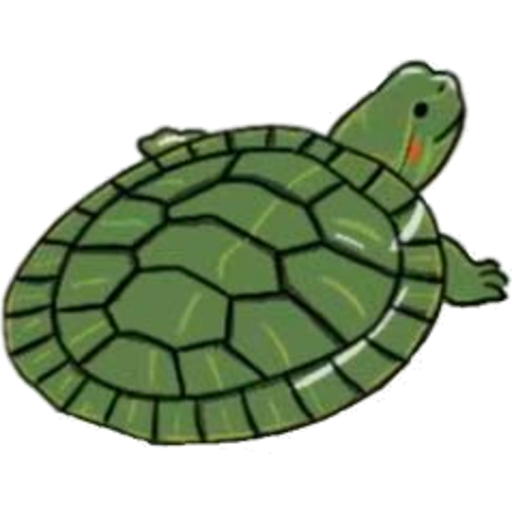
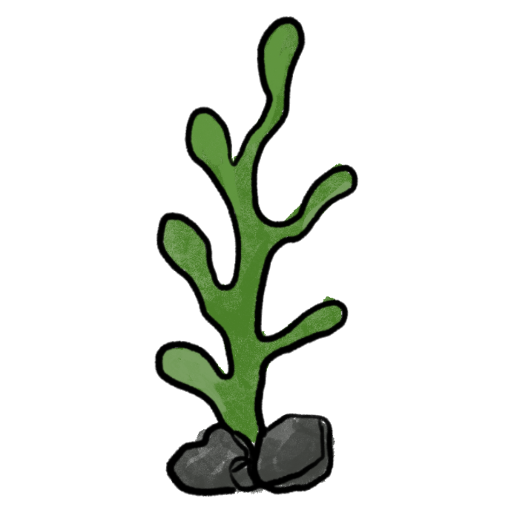
feat(minigame): 接入31张手绘贴图并恢复常态关卡进程
- 处理01-31手绘PNG：去白底(边缘漫水+内部白洞)、裁剪居中、面积归一化缩放至512
- 引擎优先用assets/patterns/NN.png，32-70暂由程序生物兜底
- core.js RETAINED_PATTERNS置空，图案随关卡自然增长(1-31手绘、32-70程序生成)
- 设置面板新增“回到第1关”按钮，一键重置进度存档(psm.level)
- 结算文案“再来一局”改为“下一关”
- 新增预览图 preview-patterns.html / preview_sheet.png / preview_level1.png

diff --git a/minigame/js/ui.js b/minigame/js/ui.js
@@ -37,7 +37,8 @@ class UI {
     this.winBtn = null;         // {x, y, w, h}
     this.settingsCloseBtn = null; // {x, y, w, h}
     this.settingsRestartBtn = null; // {x, y, w, h}
-    this.pressId = null; // 底部按钮按压反馈：'settingsRestart' | 'settingsClose'
+    this.settingsResetBtn = null;   // {x, y, w, h} 回到第1关
+    this.pressId = null; // 底部按钮按压反馈：'settingsReset' | 'settingsRestart' | 'settingsClose'
     this.winPressId = null; // 结算“再来一局”按压反馈
     this.confetti = [];         // active confetti pieces
     this.fishX = 0;             // animated fish position along the bar
@@ -93,7 +94,7 @@ class UI {
   // works even before the first render of the panel).
   _layoutSettings(W, H) {
     const cardW = Math.min(W * 0.8, 320);
-    const cardH = 300;
+    const cardH = 320;
     const c = { x: Math.round((W - cardW) / 2), y: Math.round((H - cardH) / 2), w: cardW, h: cardH };
     const rowX = c.x + 20;
     const rowW = cardW - 40;
@@ -104,11 +105,12 @@ class UI {
       sound:   { x: rowX, y: c.y + 126, w: rowW, h: rowH },
       vibrate: { x: rowX, y: c.y + 174, w: rowW, h: rowH },
     };
-    const bh = 44;
+    const bh = 42;
     const gap = 12;
     const bw = Math.round((rowW - gap) / 2);
-    this.settingsRestartBtn = { x: c.x + 20, y: c.y + cardH - 64, w: bw, h: bh };
-    this.settingsCloseBtn = { x: c.x + 20 + bw + gap, y: c.y + cardH - 64, w: bw, h: bh };
+    this.settingsResetBtn = { x: c.x + 20, y: c.y + 224, w: rowW, h: bh };
+    this.settingsRestartBtn = { x: c.x + 20, y: c.y + cardH - 46, w: bw, h: bh };
+    this.settingsCloseBtn = { x: c.x + 20 + bw + gap, y: c.y + cardH - 46, w: bw, h: bh };
   }
 
   // ---- hit testing ------------------------------------------------------
@@ -132,6 +134,10 @@ class UI {
       if (this.settingsCloseBtn && x >= this.settingsCloseBtn.x && x <= this.settingsCloseBtn.x + this.settingsCloseBtn.w &&
           y >= this.settingsCloseBtn.y && y <= this.settingsCloseBtn.y + this.settingsCloseBtn.h) {
         return { zone: 'overlay', id: 'settingsClose' };
+      }
+      if (this.settingsResetBtn && x >= this.settingsResetBtn.x && x <= this.settingsResetBtn.x + this.settingsResetBtn.w &&
+          y >= this.settingsResetBtn.y && y <= this.settingsResetBtn.y + this.settingsResetBtn.h) {
+        return { zone: 'overlay', id: 'settingsReset' };
       }
       return { zone: 'overlay', id: null }; // block board while settings is up
     }
@@ -528,7 +534,9 @@ class UI {
     this._drawSettingsRow(ctx, this.settingsRows.sound, '音效', null, !!s.soundOn, 'sound');
     this._drawSettingsRow(ctx, this.settingsRows.vibrate, '震动', null, !!s.vibrate, 'vibrate');
 
-    // 底部一排按钮：左“重新开始”（黄）、右“返回游戏”（呼吸缩放）
+    // 底部按钮：上排“回到第 1 关”（蓝），下排左“重新开始”（黄）、右“返回游戏”（绿）
+    const rbtn = this.settingsResetBtn;
+    if (rbtn) this._drawPanelButton(ctx, rbtn, '回到第 1 关', '#6ec6ff', '#2f8fd6', this.pressId === 'settingsReset', false, now, '#ffffff');
     const rb = this.settingsRestartBtn;
     if (rb) this._drawPanelButton(ctx, rb, '重新开始', '#ffd54f', '#f5b400', this.pressId === 'settingsRestart', false, now, '#ffffff');
     const b = this.settingsCloseBtn;
@@ -811,7 +819,7 @@ class UI {
     ctx.fill();
     ctx.fillStyle = '#fff';
     ctx.font = rf('700', 16);
-    ctx.fillText('再来一局', bx + bw / 2, by + bh / 2 + 1);
+    ctx.fillText('下一关', bx + bw / 2, by + bh / 2 + 1);
     ctx.restore();
     this.winBtn = { x: bx, y: by, w: bw, h: bh };
   }

diff --git a/minigame/preview-patterns.html b/minigame/preview-patterns.html
@@ -1,0 +1,69 @@
+<!DOCTYPE html>
+<html lang="zh">
+<head>
+<meta charset="utf-8">
+<meta name="viewport" content="width=device-width,initial-scale=1">
+<title>手绘贴图预览（海洋消消乐）</title>
+<style>
+  body{background:#0b2233;color:#cfe6f5;font-family:system-ui,sans-serif;margin:0;padding:16px}
+  h1{font-size:16px;font-weight:600}
+  .note{font-size:12px;opacity:.7;margin:6px 0 14px}
+  .grid{display:grid;grid-template-columns:repeat(auto-fill,minmax(110px,1fr));gap:10px}
+  .cell{background:#0e2c40;border-radius:10px;padding:8px;text-align:center}
+  canvas{width:96px;height:96px;display:block;margin:0 auto;border-radius:8px}
+  .lbl{font-size:11px;margin-top:6px;opacity:.8}
+  .chk{width:96px;height:96px;display:block;margin:4px auto 0;border-radius:8px;
+       background:
+         linear-gradient(45deg,#555 25%,transparent 25%),
+         linear-gradient(-45deg,#555 25%,transparent 25%),
+         linear-gradient(45deg,transparent 75%,#555 75%),
+         linear-gradient(-45deg,transparent 75%,#555 75%);
+       background-size:16px 16px;background-position:0 0,0 8px,8px -8px,-8px 0}
+  .row{display:flex;gap:6px;align-items:center;justify-content:center}
+</style>
+</head>
+<body>
+<h1>手绘贴图预览 · 31 张（1–31）</h1>
+<div class="note">左：游戏内实际效果（蓝底方块 + 贴图）；右：透明通道检查（棋盘格=透明区）。对应 creatures.js 图案编号 1–31。</div>
+<div class="grid" id="g"></div>
+<script>
+const N = 31;
+const TILE_BASE = '#a6d8f0';
+function bakeTile(ctx, S){
+  const m=S*0.03, w=S-m*2, r=10, t=Math.max(3,S*0.10);
+  // 侧面
+  ctx.fillStyle = shade(TILE_BASE,-26);
+  rr(ctx,m,S-t,w,t+r); ctx.fill();
+  // 顶面
+  const g=ctx.createLinearGradient(0,m,0,m+w);
+  g.addColorStop(0,shade(TILE_BASE,18)); g.addColorStop(1,TILE_BASE);
+  ctx.fillStyle=g; rr(ctx,m,m,w,w); ctx.fill();
+  // 高光
+  ctx.fillStyle='rgba(255,255,255,0.22)'; rr(ctx,m+w*0.08,m+w*0.06,w*0.84,w*0.34); ctx.fill();
+}
+function shade(hex,amt){const n=parseInt(hex.slice(1),16);const r=clamp((n>>16)+amt),g=clamp(((n>>8)&255)+amt),b=clamp((n&255)+amt);return '#'+((r<<16)|(g<<8)|b).toString(16).padStart(6,'0');}
+function clamp(v){return Math.max(0,Math.min(255,Math.round(v)));}
+function rr(ctx,x,y,w,h,r){r=Math.min(r,w/2,h/2);ctx.beginPath();ctx.moveTo(x+r,y);ctx.arcTo(x+w,y,x+w,y+h,r);ctx.arcTo(x+w,y+h,x,y+h,r);ctx.arcTo(x,y+h,x,y,r);ctx.arcTo(x,y,x+w,y,r);ctx.closePath();}
+
+const g=document.getElementById('g');
+for(let i=1;i<=N;i++){
+  const n=String(i).padStart(2,'0');
+  const cell=document.createElement('div'); cell.className='cell';
+  // in-game tile
+  const cv=document.createElement('canvas'); cv.width=96;cv.height=96;
+  const ctx=cv.getContext('2d');
+  bakeTile(ctx,96);
+  const img=new Image();
+  img.onload=()=>{const inset=96*0.10; ctx.drawImage(img,inset,inset,96-inset*2,96-inset*2);};
+  img.src='assets/patterns/'+n+'.png';
+  // checkerboard (transparency)
+  const chk=document.createElement('canvas'); chk.className='chk'; chk.width=96;chk.height=96;
+  const c2=chk.getContext('2d'); const im2=new Image();
+  im2.onload=()=>c2.drawImage(im2,0,0,96,96); im2.src='assets/patterns/'+n+'.png';
+  const row=document.createElement('div'); row.className='row'; row.appendChild(cv); row.appendChild(chk);
+  const lbl=document.createElement('div'); lbl.className='lbl'; lbl.textContent=n;
+  cell.appendChild(row); cell.appendChild(lbl); g.appendChild(cell);
+}
+</script>
+</body>
+</html>

diff --git a/minigame/js/app.js b/minigame/js/app.js
@@ -414,7 +414,7 @@ class App {
         else if (hit.id === 'settingsSound') this._toggleSound();
         else if (hit.id === 'settingsVibrate') this._toggleVibrate();
         else if (hit.id === 'settingsMusic') this._toggleMusic();
-        else if (hit.id === 'settingsRestart' || hit.id === 'settingsClose') {
+        else if (hit.id === 'settingsRestart' || hit.id === 'settingsClose' || hit.id === 'settingsReset') {
           // 按下时记录，松开再触发，以呈现按压点击效果
           this.ui.pressId = hit.id;
           this.sound.ui();
@@ -503,6 +503,9 @@ class App {
       if (id === 'settingsRestart') {
         this.uiState.settings = false;
         this.restart();
+      } else if (id === 'settingsReset') {
+        this.uiState.settings = false;
+        this.resetToLevel1();
       } else if (id === 'settingsClose') {
         this.uiState.settings = false;
         this.view.render();
@@ -640,6 +643,28 @@ class App {
     this.streak = 0;
     this.stats = this._freshStats();
     this.core.init(this.uiState.level);
+    this.view = new RenderView(this.boardCanvas, this.core, this.platform);
+    this._wireView(this.view);
+    this.uiState.stuck = false;
+    this.uiState.usedOnce = { undo: false, shuffle: false, hint: false };
+    this.setMsg('');
+    this.updateHud();
+  }
+
+  // 回到第 1 关：重置进度并存档，从头开始玩（等同于清掉 psm.level 缓存）
+  resetToLevel1() {
+    this.uiState.win = null;
+    this.ui.winPressId = null;
+    RenderView.setPaused(false);
+    if (this.view) this.view._bumpToken();
+    this.busy = false;
+    this.press = null;
+    this.picking = null;
+    this.streak = 0;
+    this.stats = this._freshStats();
+    this.uiState.level = 1;
+    try { storage.set('psm.level', '1'); } catch (e) {}
+    this.core.init(1);
     this.view = new RenderView(this.boardCanvas, this.core, this.platform);
     this._wireView(this.view);
     this.uiState.stuck = false;

diff --git a/minigame/js/view.js b/minigame/js/view.js
@@ -589,9 +589,11 @@ class RenderView {
       const t = Math.min(1, (performance.now() - this.bounce.t0) / this.bounce.dur);
       if (t < 1) {
         pulsePattern = this.bounce.pattern;
-        // 同色方块来回晃动约 ±14°，幅度随时间衰减
-        const ampRad = (1 - t) * 0.247;
-        pulseAngle = Math.sin(t * Math.PI * 2.5) * ampRad;
+        const clicks = this.bounce.clicks || 1;
+        const attack = Math.min(1, t * 6); // 起始快速建立，避免突兀
+        const ampRad = (1 - t) * 0.18 * (1 + 0.35 * (clicks - 1)); // 连击幅度递增
+        const freq = 3.0 + (clicks - 1) * 1.0; // 连击频率递增
+        pulseAngle = Math.sin(t * Math.PI * freq) * ampRad * attack;
       } else {
     this.bounce = null;
     this.settle = null;
@@ -766,10 +768,14 @@ class RenderView {
   }
 
   triggerBounce(pattern) {
-    // 同色正在晃动时不打断，连续点击更顺滑
-    if (this.bounce && this.bounce.pattern === pattern) return;
-    this.bounce = { pattern, t0: performance.now(), dur: 450 };
-    this._animateUntil(450, () => this.render(), () => {
+    const now = performance.now();
+    if (this.bounce && this.bounce.pattern === pattern) {
+      // 连击：仅提升频率/幅度，不重置计时 → 旋转连续无跳变、无重影交叠
+      this.bounce.clicks = Math.min((this.bounce.clicks || 1) + 1, 4);
+    } else {
+      this.bounce = { pattern, t0: now, dur: 360, clicks: 1 };
+    }
+    this._animateUntil(this.bounce.dur, () => this.render(), () => {
       this.bounce = null;
       this.render();
     });

diff --git a/minigame/js/core.js b/minigame/js/core.js
@@ -21,7 +21,10 @@ const LAYOUT_FIXED_LEVEL = 500;  // 仅排布难度继续爬升到 500 关后封
 
 // 预览用：设为非空数组时，棋盘只铺这些图案（真实编号），其余暂不登场。
 // 设为 null 即恢复按关卡难度曲线引入全部 70 种。后台绘制/配色数据均保留不动。
-const RETAINED_PATTERNS = [1, 2, 3, 4, 5, 6, 7, 9, 10, 13, 19];
+// 恢复正常游戏：按关卡难度曲线引入全部 70 种（第1关14种，第272关满70种）。
+// 已画好的手绘贴图 1–31 放 assets/patterns/NN.png，引擎优先用手绘；
+// 32–70 暂无手绘图，自动走程序化生物（drawCreature）兜底，画好后补图即替换。
+const RETAINED_PATTERNS = null;
 function activePatternIds(level) {
   if (RETAINED_PATTERNS && RETAINED_PATTERNS.length) return RETAINED_PATTERNS.slice();
   const P = patternCountForLevel(level);
